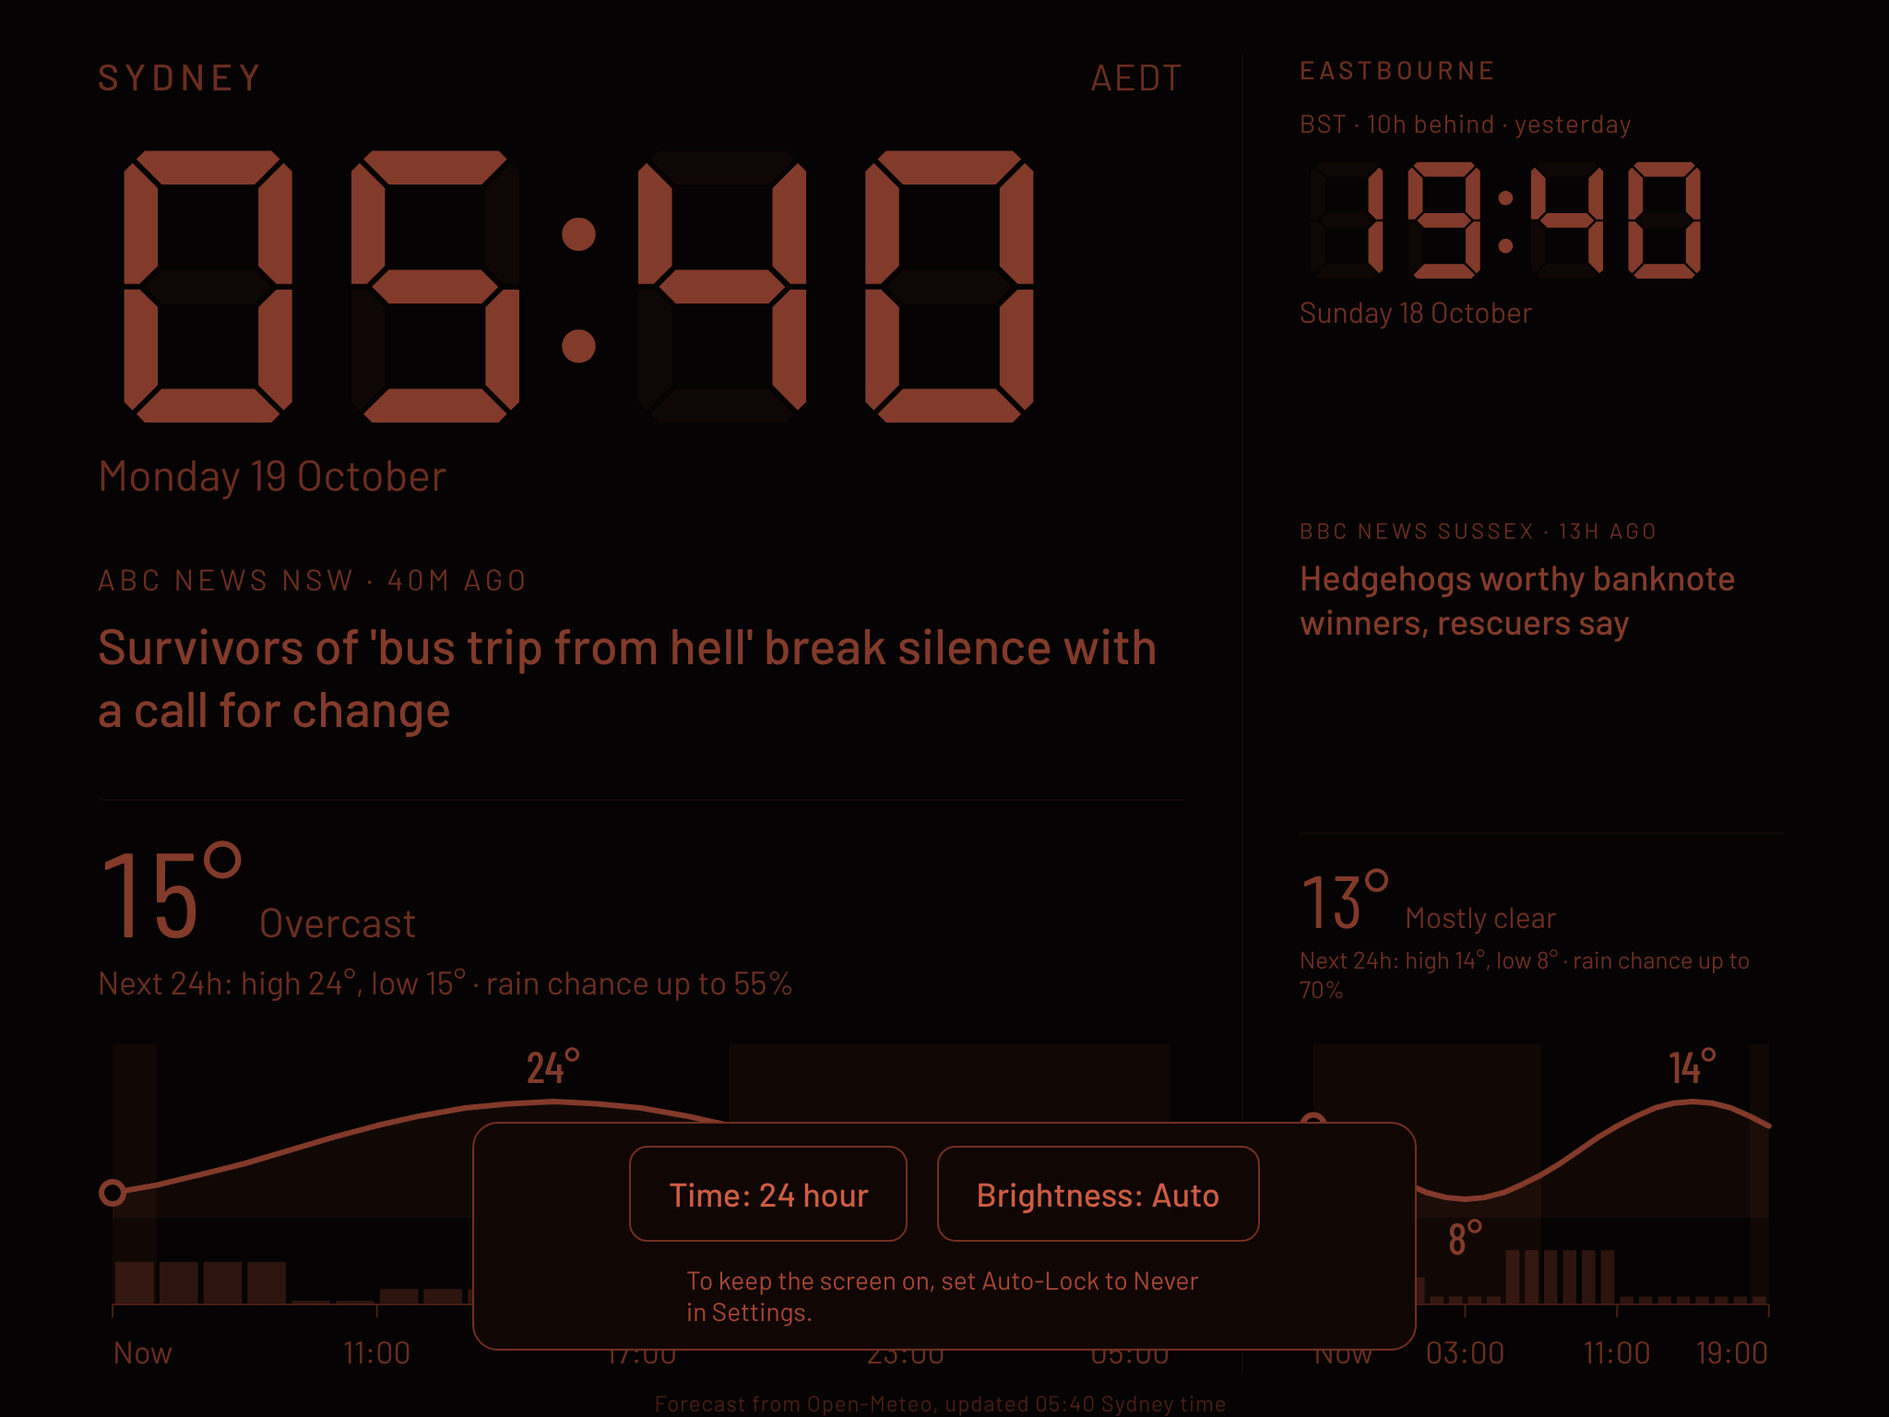
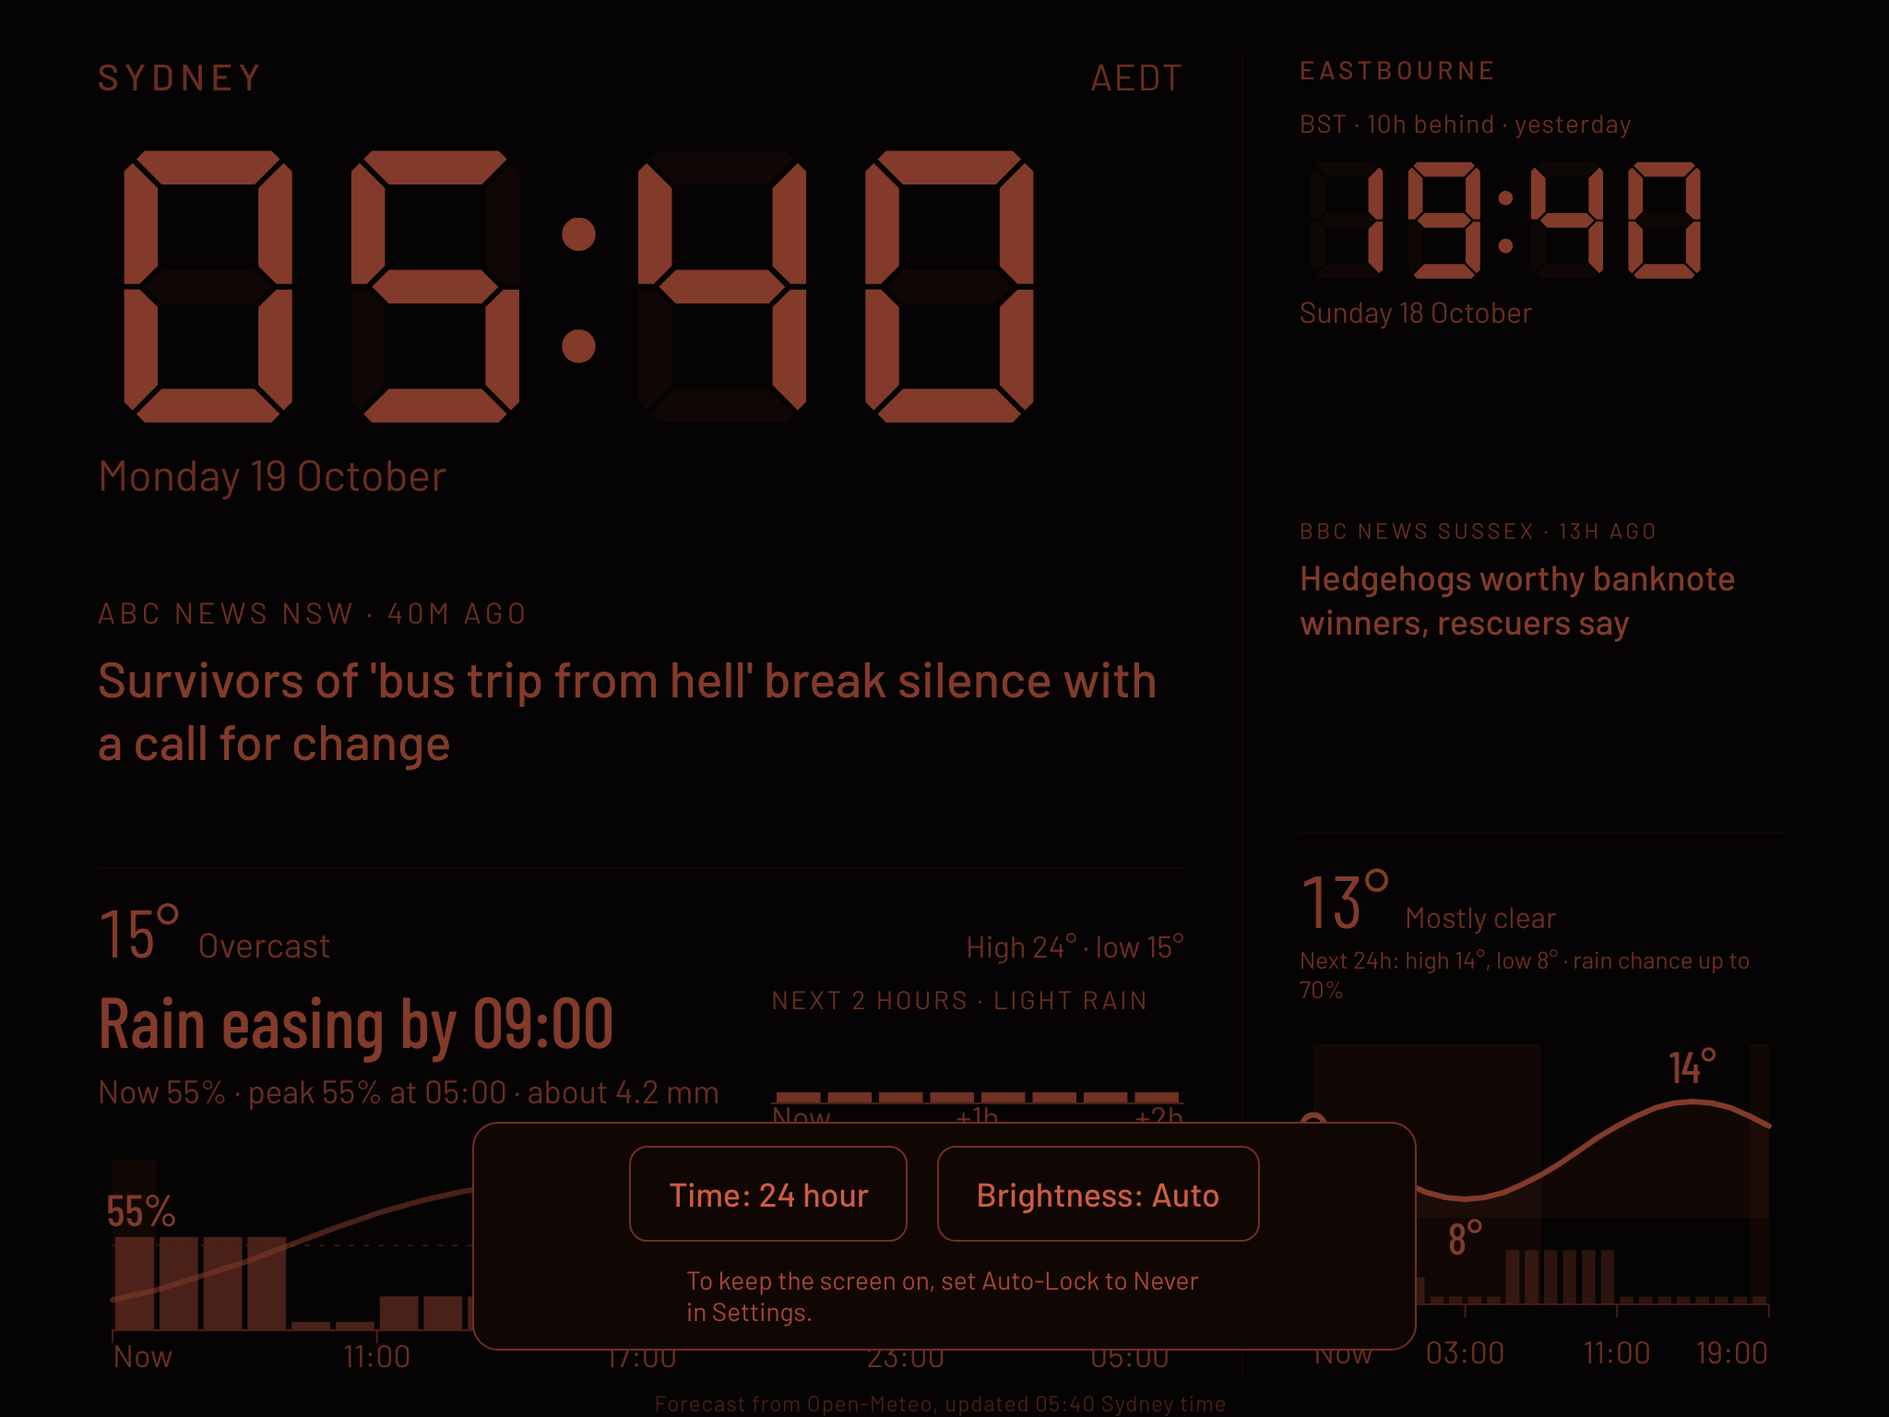
Sydney: rain-first weather block with next-2-hours strip
Claude-Session: https://claude.ai/code/session_01LHKBPoX4shMzbvKjK3tPdX

diff --git a/app.js b/app.js
@@ -101,6 +101,11 @@
       temp: $(k + '-temp'), desc: $(k + '-desc'), range: $(k + '-range'), chart: $(k + '-chart')
     };
   });
+  els.syd.rainHead = $('syd-rain-head');
+  els.syd.rainSub = $('syd-rain-sub');
+  els.syd.ncWrap = $('syd-nc-wrap');
+  els.syd.ncCap = $('syd-nc-cap');
+  els.syd.nc = $('syd-nc');
   var foot = $('foot');
   var controls = $('controls');
   var btnHours = $('btn-hours');
@@ -161,8 +166,8 @@
     }
     if (minuteIndex !== lastNewsMinute) { lastNewsMinute = minuteIndex; if (typeof renderNews === 'function') renderNews(); }
 
-    // the forecast window moves on every hour
-    var hourKey = Math.floor(now.getTime() / 3600000);
+    // the forecast window moves on every hour, the two hour rain strip every quarter hour
+    var hourKey = Math.floor(now.getTime() / 900000);
     if (hourKey !== lastHourKey) {
       lastHourKey = hourKey;
       renderWeather();
@@ -186,7 +191,9 @@
       temp: h.temperature_2m,
       pop: h.precipitation_probability,
       code: h.weather_code,
-      day: h.is_day
+      day: h.is_day,
+      precip: h.precipitation,
+      m15: o.minutely_15 ? { t: o.minutely_15.time.map(function (q) { return Date.parse(q + ':00Z'); }), mm: o.minutely_15.precipitation } : null
     };
   }
 
@@ -194,7 +201,8 @@
     var url = 'https://api.open-meteo.com/v1/forecast'
       + '?latitude=' + CITIES.syd.lat + ',' + CITIES.uk.lat
       + '&longitude=' + CITIES.syd.lon + ',' + CITIES.uk.lon
-      + '&hourly=temperature_2m,precipitation_probability,weather_code,is_day'
+      + '&hourly=temperature_2m,precipitation_probability,precipitation,weather_code,is_day'
+      + '&minutely_15=precipitation'
       + '&timezone=GMT&forecast_days=3';
     var ctl = typeof AbortController !== 'undefined' ? new AbortController() : null;
     var timer = setTimeout(function () { if (ctl) ctl.abort(); }, 20000);
@@ -236,8 +244,79 @@
       temp: cut(w.temp).map(function (v) { return v == null ? 0 : v; }),
       pop: cut(w.pop).map(function (v) { return v == null ? 0 : v; }),
       code: cut(w.code),
-      day: cut(w.day)
+      day: cut(w.day),
+      mm: cut(w.precip || w.t.map(function () { return 0; })).map(function (v) { return v == null ? 0 : v; })
     };
+  }
+
+  // Next two hours in 15 minute steps (8 values, mm). Null if the data is missing or stale.
+  function nowcastOf(w) {
+    if (!w || !w.m15) return null;
+    var q0 = Math.floor(Date.now() / 900000) * 900000, i = -1;
+    for (var j = 0; j < w.m15.t.length; j++) { if (w.m15.t[j] >= q0) { i = j; break; } }
+    if (i < 0 || i + 8 > w.m15.t.length) return null;
+    return w.m15.mm.slice(i, i + 8).map(function (v) { return v == null ? 0 : v; });
+  }
+
+  // Plain-words rain outlook for the next 24 hours.
+  function rainSummary(win, nc, tz) {
+    var n = 24, wet = [], total = 0, maxP = 0, pk = 0, i;
+    for (i = 0; i < n; i++) {
+      wet.push(win.pop[i] >= 50 || win.mm[i] >= 0.3);
+      total += win.mm[i];
+      if (win.pop[i] > maxP) { maxP = win.pop[i]; pk = i; }
+    }
+    var nowWet = nc ? (nc[0] >= 0.1 || nc[1] >= 0.1) : wet[0];
+    var head, end;
+    if (nowWet) {
+      end = -1;
+      for (i = 1; i < n; i++) { if (!wet[i]) { end = i; break; } }
+      head = end < 0 ? 'Rain all day' : 'Rain easing by ' + hourLabel(win.t[end], tz);
+    } else {
+      var start = -1;
+      for (i = 0; i < n; i++) { if (wet[i]) { start = i; break; } }
+      if (start === 0) {
+        head = 'Rain likely soon';
+      } else if (start > 0) {
+        end = start + 1;
+        while (end < n && wet[end]) end++;
+        head = end < n
+          ? 'Rain ' + hourLabel(win.t[start], tz) + ' to ' + hourLabel(win.t[end], tz)
+          : 'Rain from ' + hourLabel(win.t[start], tz);
+      } else if (maxP >= 20) {
+        head = 'Dry, slim chance of showers';
+      } else {
+        head = 'Dry for the next 24 hours';
+      }
+    }
+    var parts = ['Now ' + Math.round(win.pop[0]) + '%'];
+    if (maxP >= 10) parts.push('peak ' + Math.round(maxP) + '% at ' + hourLabel(win.t[pk], tz));
+    if (total >= 0.1) parts.push('about ' + (total >= 10 ? Math.round(total) : total.toFixed(1)) + ' mm');
+    return { head: head, sub: parts.join(' · ') };
+  }
+
+  function nowcastText(nc) {
+    var peak = Math.max.apply(null, nc);
+    if (peak < 0.1) return 'Dry';
+    if (peak < 0.5) return 'Light rain';
+    if (peak < 1.5) return 'Moderate rain';
+    return 'Heavy rain';
+  }
+
+  function nowcastSVG(nc, W, H) {
+    var AX = H - 16, peak = Math.max(1, Math.max.apply(null, nc)), bw = (W - 2) / nc.length;
+    var s = '<svg viewBox="0 0 ' + W + ' ' + H + '" role="img" aria-label="Rain in the next two hours">';
+    nc.forEach(function (v, i) {
+      if (v < 0.05) return;
+      var bh = Math.max(3, v / peak * (AX - 4));
+      s += '<rect class="bar bar-nc" x="' + (1 + i * bw + 2).toFixed(1) + '" y="' + (AX - bh).toFixed(1)
+        + '" width="' + (bw - 4).toFixed(1) + '" height="' + bh.toFixed(1) + '"/>';
+    });
+    s += '<line class="axis" x1="0" y1="' + AX + '" x2="' + W + '" y2="' + AX + '"/>';
+    [['Now', 0, 'start'], ['+1h', W / 2, 'middle'], ['+2h', W, 'end']].forEach(function (m) {
+      s += '<text class="lbl lbl-sm" x="' + m[1] + '" y="' + (H - 2) + '" text-anchor="' + m[2] + '">' + m[0] + '</text>';
+    });
+    return s + '</svg>';
   }
 
   function codeText(c) {
@@ -262,10 +341,11 @@
   }
 
   // W and H are the chart's real pixel size, so labels stay a readable size in narrow columns.
-  function chartSVG(win, city, W, H) {
+  function chartSVG(win, city, W, H, rainLed) {
     var L = 8, R = 8;
     var NT = Math.round(H * 0.06), TOP = Math.max(34, Math.round(H * 0.22)), LB = Math.round(H * 0.5);
     var AX = Math.round(H * 0.8), BAR = Math.round(H * 0.22), LBL = Math.round(H * 0.97);
+    if (rainLed) { NT = 4; TOP = NT + 12; AX = H - 24; LB = AX - 12; BAR = AX - NT; LBL = H - 4; }
     var n = win.temp.length;
     var step = (W - L - R) / (n - 1);
     function x(i) { return L + step * i; }
@@ -301,27 +381,44 @@
       var p = win.pop[i];
       if (p >= 5) {
         var bh = Math.max(2, p / 100 * BAR);
-        s += '<rect class="bar" x="' + (x(i) + 1.5).toFixed(1) + '" y="' + (AX - bh).toFixed(1)
+        s += '<rect class="bar' + (rainLed ? ' bar-led' : '') + '" x="' + (x(i) + 1.5).toFixed(1) + '" y="' + (AX - bh).toFixed(1)
           + '" width="' + Math.max(2, step - 3).toFixed(1) + '" height="' + bh.toFixed(1) + '"/>';
       }
     }
 
     s += '<line class="axis" x1="' + L + '" y1="' + AX + '" x2="' + (W - R) + '" y2="' + AX + '"/>';
 
+    if (rainLed) {
+      // rain chance is the main story: a 50% guide line, the peak labelled, temperature kept as a thin line
+      var gy = AX - 0.5 * BAR;
+      s += '<line class="grid" x1="' + L + '" y1="' + gy.toFixed(1) + '" x2="' + (W - R) + '" y2="' + gy.toFixed(1) + '"/>';
+      s += '<text class="lbl lbl-sm lbl-halo" x="' + (W - R) + '" y="' + (gy - 4).toFixed(1) + '" text-anchor="end">50% chance</text>';
+      var pk = 0;
+      for (i = 0; i < n - 1; i++) { if (win.pop[i] > win.pop[pk]) pk = i; }
+      if (win.pop[pk] >= 10) {
+        var py = Math.max(16, AX - win.pop[pk] / 100 * BAR - 6);
+        var px = Math.min(W - 24, Math.max(24, x(pk) + step / 2));
+        s += '<text class="val" x="' + px.toFixed(1) + '" y="' + py.toFixed(1) + '" text-anchor="middle">'
+          + Math.round(win.pop[pk]) + '%</text>';
+      }
+    }
+
     // temperature
     var pts = win.temp.map(function (v, k) { return x(k).toFixed(1) + ',' + y(v).toFixed(1); });
-    s += '<polygon class="area" points="' + pts.join(' ') + ' ' + x(n - 1).toFixed(1) + ',' + (LB + 10)
+    if (!rainLed) s += '<polygon class="area" points="' + pts.join(' ') + ' ' + x(n - 1).toFixed(1) + ',' + (LB + 10)
       + ' ' + x(0).toFixed(1) + ',' + (LB + 10) + '"/>';
-    s += '<polyline class="tline" points="' + pts.join(' ') + '"/>';
-    s += '<circle class="dot" cx="' + x(0).toFixed(1) + '" cy="' + y(win.temp[0]).toFixed(1) + '" r="6"/>';
+    s += '<polyline class="tline' + (rainLed ? ' tline-thin' : '') + '" points="' + pts.join(' ') + '"/>';
+    if (!rainLed) s += '<circle class="dot" cx="' + x(0).toFixed(1) + '" cy="' + y(win.temp[0]).toFixed(1) + '" r="6"/>';
 
     function valueLabel(idx, v, dy) {
       var xx = Math.min(W - 20, Math.max(20, x(idx)));
       return '<text class="val" x="' + xx.toFixed(1) + '" y="' + (y(v) + dy).toFixed(1)
         + '" text-anchor="middle">' + Math.round(v) + '°</text>';
     }
-    s += valueLabel(hiI, hi, -10);
-    if (loI !== hiI && hi - lo >= 1) s += valueLabel(loI, lo, 30);
+    if (!rainLed) {
+      s += valueLabel(hiI, hi, -10);
+      if (loI !== hiI && hi - lo >= 1) s += valueLabel(loI, lo, 30);
+    }
 
     // hour labels
     var marks = W < 360 ? [0, 8, 16, 24] : [0, 6, 12, 18, 24];  // fewer labels in a narrow column
@@ -346,6 +443,7 @@
         e.desc.textContent = weather ? 'Forecast out of date' : 'Loading forecast';
         e.range.textContent = '';
         e.chart.innerHTML = '';
+        if (e.rainHead) { e.rainHead.textContent = ''; e.rainSub.textContent = ''; e.ncWrap.hidden = true; }
         return;
       }
       var hi = Math.max.apply(null, win.temp);
@@ -353,11 +451,26 @@
       var maxPop = Math.max.apply(null, win.pop);
       e.temp.textContent = Math.round(win.temp[0]) + '°';
       e.desc.textContent = codeText(win.code[0]);
-      e.range.textContent = 'Next 24h: high ' + Math.round(hi) + '°, low ' + Math.round(lo) + '° · '
-        + (maxPop < 10 ? 'no rain expected' : 'rain chance up to ' + Math.round(maxPop) + '%');
+      var portrait = window.innerHeight > window.innerWidth;
       var cw = Math.round(e.chart.clientWidth) || 560;
-      var ch = window.innerHeight > window.innerWidth ? 150 : 190;
-      e.chart.innerHTML = chartSVG(win, CITIES[k], cw, ch);
+      if (e.rainHead) {
+        // Sydney: rain first, temperature kept small
+        e.range.textContent = 'High ' + Math.round(hi) + '° · low ' + Math.round(lo) + '°';
+        var rs = rainSummary(win, nowcastOf(weather[k]), CITIES[k].tz);
+        e.rainHead.textContent = rs.head;
+        e.rainSub.textContent = rs.sub;
+        var nc = nowcastOf(weather[k]);
+        e.ncWrap.hidden = !nc;
+        if (nc) {
+          e.ncCap.textContent = 'Next 2 hours · ' + nowcastText(nc);
+          e.nc.innerHTML = nowcastSVG(nc, Math.round(e.nc.clientWidth) || 220, portrait ? 46 : 60);
+        }
+        e.chart.innerHTML = chartSVG(win, CITIES[k], cw, portrait ? 84 : 120, true);
+      } else {
+        e.range.textContent = 'Next 24h: high ' + Math.round(hi) + '°, low ' + Math.round(lo) + '° · '
+          + (maxPop < 10 ? 'no rain expected' : 'rain chance up to ' + Math.round(maxPop) + '%');
+        e.chart.innerHTML = chartSVG(win, CITIES[k], cw, portrait ? 150 : 190);
+      }
     });
     renderFoot();
   }

diff --git a/styles.css b/styles.css
@@ -163,11 +163,43 @@ body { font-family: var(--body); }
 
 .wx-chart svg { display: block; width: 100%; height: auto; margin-top: 0.7em; }
 
+/* Sydney: rain first, temperature small */
+.wx-rainy .wx-now { gap: 0.6em; }
+.wx-rainy .wx-temp { font-size: clamp(28px, 6.2cqw, 40px); }
+.wx-rainy .wx-desc { font-size: clamp(15px, 3.2cqw, 20px); }
+.wx-rainy .wx-range { margin: 0 0 0 auto; min-height: 0; font-size: clamp(13px, 2.8cqw, 17px); }
+.rain-row { display: flex; gap: 20px; align-items: flex-start; margin-top: 0.6em; }
+.rain-text { flex: 1 1 56%; min-width: 0; }
+.rain-head {
+  font-family: var(--display);
+  font-weight: 500;
+  font-size: clamp(26px, 6.6cqw, 42px);
+  line-height: 1.05;
+  color: var(--ink);
+}
+.rain-sub { font-size: clamp(14px, 3cqw, 19px); color: var(--ink-2); margin-top: 0.35em; }
+.rain-nc { flex: 0 0 38%; min-width: 0; }
+.rain-nc-cap {
+  font-size: clamp(11px, 2.4cqw, 14px);
+  letter-spacing: 0.1em;
+  text-transform: uppercase;
+  color: var(--ink-2);
+  margin-bottom: 4px;
+}
+.rain-nc svg { display: block; width: 100%; height: 60px; }
+.wx-rainy .wx-chart svg { margin-top: 0.7em; }
+
 /* chart parts */
 .night { fill: var(--line); }
 .bar   { fill: var(--ink); opacity: 0.32; }
 .axis  { stroke: var(--ink-3); stroke-width: 1; }
 .tick  { stroke: var(--ink-3); stroke-width: 1; }
+.bar-led { opacity: 0.55; }
+.bar-nc  { opacity: 0.85; }
+.grid  { stroke: var(--ink-3); stroke-width: 1; stroke-dasharray: 3 5; opacity: 0.7; }
+.tline-thin { stroke-width: 2; opacity: 0.55; }
+.lbl-sm { font-size: 14px; }
+.lbl-halo { paint-order: stroke; stroke: var(--bg); stroke-width: 5px; stroke-linejoin: round; }
 .area  { fill: var(--ink); opacity: 0.1; }
 .tline { fill: none; stroke: var(--ink); stroke-width: 3; stroke-linejoin: round; stroke-linecap: round; }
 .dot   { fill: var(--bg); stroke: var(--ink); stroke-width: 3; }
@@ -224,9 +256,12 @@ body { font-family: var(--body); }
   }
   .city + .city { border-left: 0; border-top: 1px solid var(--line); }
   #app { padding-top: max(20px, env(safe-area-inset-top)); padding-bottom: max(24px, env(safe-area-inset-bottom)); }
-  .city { gap: 8px; }
+  .city { gap: 8px; padding-bottom: 14px; }
   .news { display: none; }  /* portrait is tight, headlines are for landscape */
-  #city-syd .time { font-size: 20cqw; }
+  #city-syd .time { font-size: 17cqw; }
+  .rain-nc svg { height: 46px; }
+  .rain-row { margin-top: 0.3em; }
+  .rain-head { font-size: clamp(24px, 5cqw, 34px); }
   #city-uk .time { font-size: 16cqw; }
   .wx { padding-top: 8px; }
   .wx-temp { font-size: 52px; }

diff --git a/index.html b/index.html
@@ -34,12 +34,22 @@
       <div class="news-src" id="syd-news-src"></div>
       <p class="news-title" id="syd-news-title"></p>
     </div>
-    <div class="wx">
+    <div class="wx wx-rainy">
       <div class="wx-now">
         <span class="wx-temp" id="syd-temp">--°</span>
         <span class="wx-desc" id="syd-desc">Loading forecast</span>
+        <span class="wx-range" id="syd-range"></span>
       </div>
-      <div class="wx-range" id="syd-range"></div>
+      <div class="rain-row">
+        <div class="rain-text">
+          <div class="rain-head" id="syd-rain-head"></div>
+          <div class="rain-sub" id="syd-rain-sub"></div>
+        </div>
+        <div class="rain-nc" id="syd-nc-wrap" hidden>
+          <div class="rain-nc-cap" id="syd-nc-cap"></div>
+          <div id="syd-nc"></div>
+        </div>
+      </div>
       <div class="wx-chart" id="syd-chart"></div>
     </div>
   </section>

diff --git a/docs/requirements.md b/docs/requirements.md
@@ -30,6 +30,7 @@ Status key: Built means the code exists and passed my own render checks. Accepte
 | S7 | I can put it on the Home Screen and it opens full screen. | Home Screen icon, no Safari toolbar, black status bar. | Accepted on device |
 | S8 | I can switch between 24 and 12 hour time. | 24 hour by default. One tap to switch, remembered. Also applies to the chart hour labels. | Accepted on device |
 | S9 | As the sleeper, I can see the top regional headline for each place. | Sydney shows the top ABC News NSW story, Eastbourne the top BBC News Sussex story, each with its source and age. Refreshes about once an hour. Hidden if no headline is available. Landscape only. | Accepted on device. The scheduled job has run once and fetched live headlines from both feeds |
+| S10 | As the sleeper, I can see how likely rain is in Earlwood, without temperature taking the space. | Sydney forecast leads with a plain-words rain outlook (for example "Rain easing by 20:00"), chance now, peak chance and time, expected millimetres, a next-2-hours rain strip, and a 24 hour chart led by rain chance. Temperature shrinks to one small line. Eastbourne unchanged. | Built, awaiting customer check on the iPad |
 
 ## Ideas, not yet prioritised
 
@@ -51,6 +52,7 @@ Status key: Built means the code exists and passed my own render checks. Accepte
 
 ## Open questions for the customer
 
+0. Would a live rain radar for the Earlwood area be worth adding? It is the only source that sees showers street by street.
 1. Red or amber digits? (Built as warm red-orange, the least disruptive to night vision.)
 2. Is a public GitHub repository acceptable? It is needed for free GitHub Pages hosting.
 
@@ -92,3 +94,4 @@ Status key: Built means the code exists and passed my own render checks. Accepte
 | 19 Oct 2026 | 2 | LGTM on headlines in the middle section | Accepted from screenshots. Next: check on the real iPad |
 | 19 Oct 2026 | 1 and 2 | Set up on the iPad: all done, perfect for now | Accepted on device. Ideas list stays open for later |
 | 19 Oct 2026 | 2 | Headlines once an hour is enough | Job now runs hourly at 7 past, page checks every 30 minutes |
+| 19 Oct 2026 | 3 | Sydney: shrink temperature, show more on rain likelihood for Earlwood, ideally Hughes Park or Hansen Avenue | Added as S10. Forecast models are about 10 km grid, so Hughes Park, Hansen Avenue and the suburb centre all get the same numbers. Kept the suburb-level point, and did not put a street-level location in the public repo. A rain radar would be the way to get truly local. Offered to the customer |

diff --git a/README.md b/README.md
@@ -24,6 +24,12 @@ Tap anywhere to show the controls for eight seconds.
 
 Choices are remembered on the iPad. Landscape is the main layout. Portrait also works.
 
+## Sydney rain
+
+The Sydney column puts rain first. It shows a one-line outlook, the chance now, the peak chance and when, the millimetres expected, a strip for the next two hours and a 24 hour rain-chance chart. Temperature is one small line.
+
+The numbers come from Open-Meteo for Earlwood. Weather models work on a grid roughly 10 km wide, so they cannot tell one street or park from another, and the next-2-hours strip is the model's estimate, not radar. The location is set to the suburb on purpose, as the repository is public.
+
 ## Headlines
 
 The blank space in each column shows the top regional headline: ABC News NSW for Sydney and BBC News Sussex for Eastbourne (BBC News England if the Sussex feed is unavailable). They are hidden in portrait.
